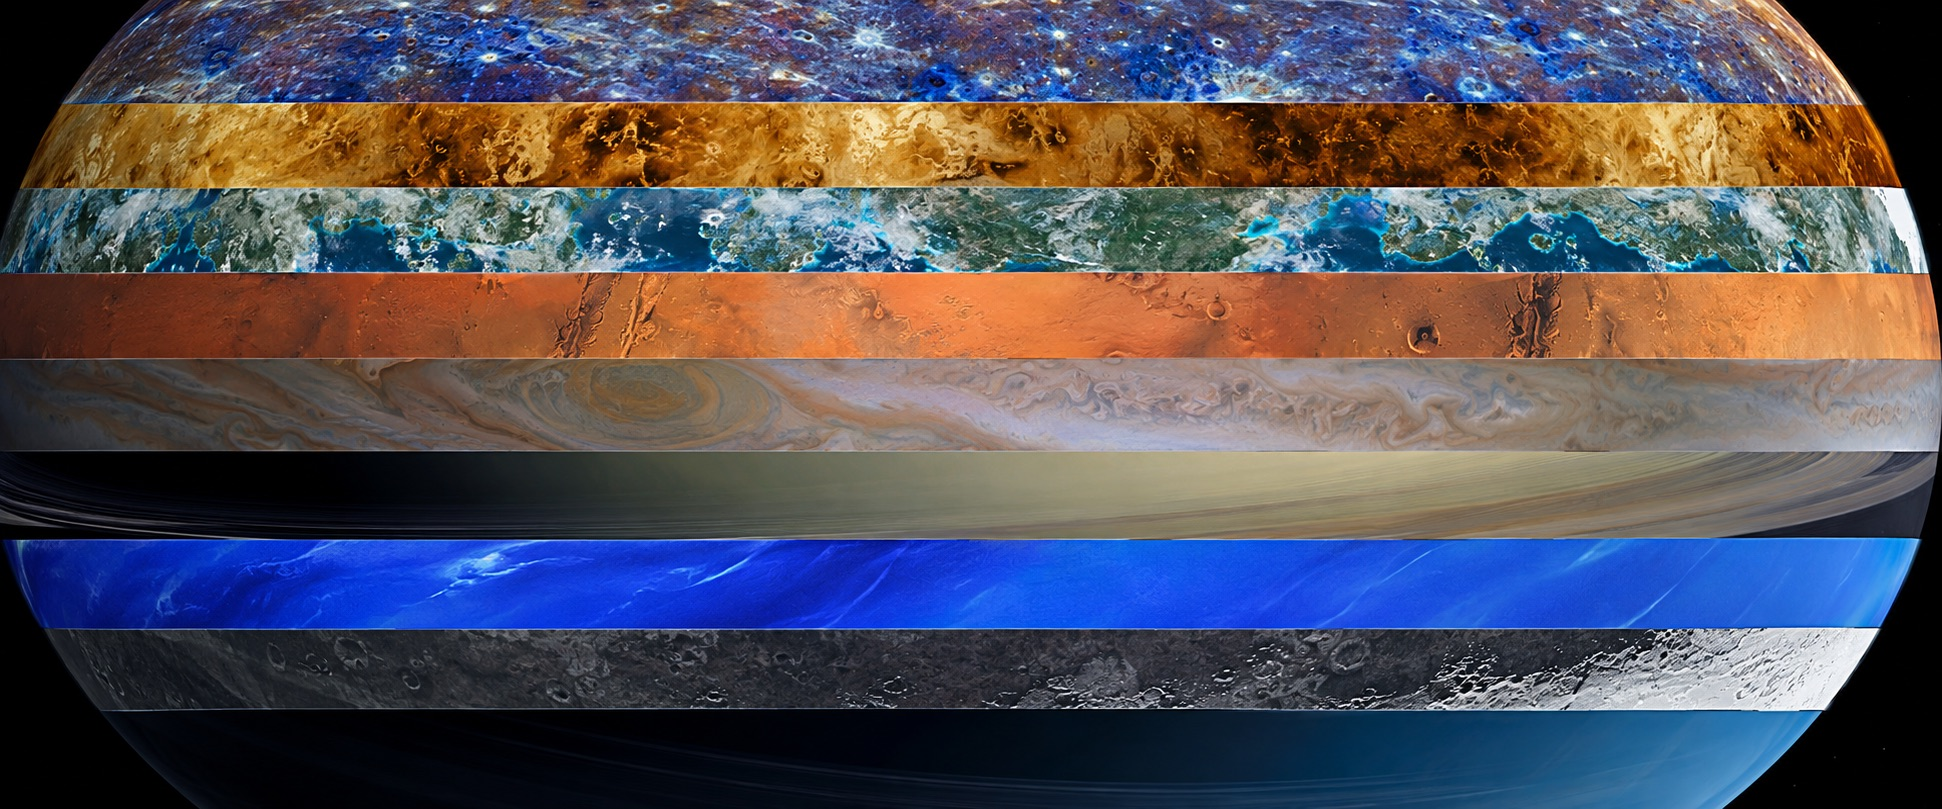
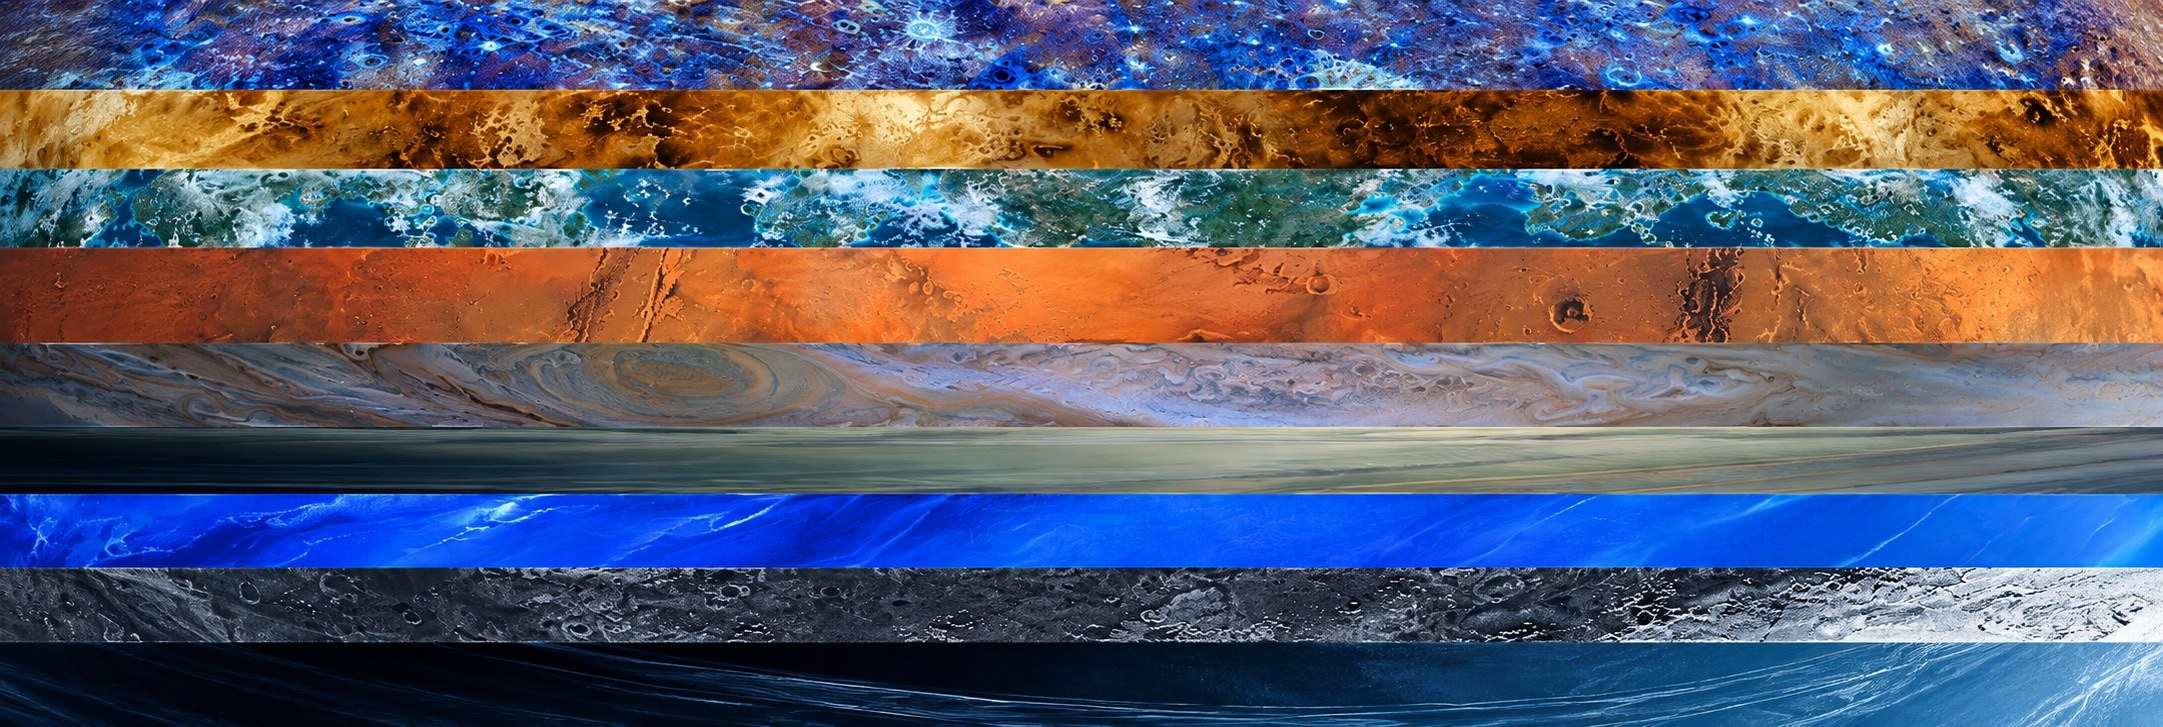
Start page: new planet stripes texture, stripes run edge to edge
Stripe positions measured from the color jumps of the new texture; the usable area is now the
whole width (no black rim), rest positions in the middle so planets can turn both ways.

Claude-Session: https://claude.ai/code/session_017AURMTeW5qFpG2teaZ4ubR

diff --git a/src/client/components/startScreen/planetStripes.ts b/src/client/components/startScreen/planetStripes.ts
@@ -3,7 +3,7 @@
    (369 × 810, rows of 90px, row 0 = title), so title background and buttons show the same globe. */
 
 export const STRIPES_TEXTURE_URL = 'assets/buttons-homepage/planet-stripes.jpg';
-export const STRIPES_TEXTURE_SIZE = {width: 1942, height: 809} as const;
+export const STRIPES_TEXTURE_SIZE = {width: 2163, height: 727} as const;
 
 // One button corresponds to this area in the sprite grid
 export const SPRITE_ROW = {width: 369, height: 90} as const;
@@ -17,15 +17,16 @@ export type PlanetStripe = {
   // Top edge and height in original texture pixels (measured from the color jumps)
   top: number;
   height: number;
-  // Texture column that sits at the left button edge at rest; the bottom stripe is colored only on the right
+  // Texture column that sits at the left button edge at rest
   startX: number;
 };
 
-const DEFAULT_START_X = 700;
+// Rest position in the middle of the texture: the same room to rotate in both directions
+const DEFAULT_START_X = 790;
 
-// At the stripe boundaries there are bright dividing lines and the neighboring stripe: cut off this much at top and bottom
-// (texture pixels) so that only the own stripe is visible – even with smoothing when scaling
-export const STRIPE_EDGE_TRIM = 2;
+// At the stripe boundaries there are bright dividing lines and the neighboring stripe (about 3 rows of transition):
+// cut off this much at top and bottom (texture pixels) so that only the own stripe is visible – even with smoothing
+export const STRIPE_EDGE_TRIM = 3;
 
 /** Visible part of a stripe without the edges. */
 export function trimmedStripe(stripe: PlanetStripe): PlanetStripe {
@@ -33,19 +34,19 @@ export function trimmedStripe(stripe: PlanetStripe): PlanetStripe {
 }
 
 export const PLANET_STRIPES: Readonly<Record<PlanetStripeName, PlanetStripe>> = {
-  venus: {top: 102, height: 86, startX: DEFAULT_START_X},
-  earth: {top: 188, height: 85, startX: DEFAULT_START_X},
-  mars: {top: 273, height: 86, startX: DEFAULT_START_X},
-  jupiter: {top: 359, height: 93, startX: DEFAULT_START_X},
-  saturn: {top: 452, height: 88, startX: DEFAULT_START_X},
-  neptune: {top: 540, height: 89, startX: DEFAULT_START_X},
-  moon: {top: 629, height: 80, startX: DEFAULT_START_X},
-  darkBlue: {top: 709, height: 100, startX: 1130},
+  venus: {top: 90, height: 79, startX: DEFAULT_START_X},
+  earth: {top: 169, height: 79, startX: DEFAULT_START_X},
+  mars: {top: 248, height: 95, startX: DEFAULT_START_X},
+  jupiter: {top: 343, height: 84, startX: DEFAULT_START_X},
+  saturn: {top: 427, height: 67, startX: DEFAULT_START_X},
+  neptune: {top: 494, height: 74, startX: DEFAULT_START_X},
+  moon: {top: 568, height: 75, startX: DEFAULT_START_X},
+  // Dark on the left, blue only towards the right: rest position further right, like before
+  darkBlue: {top: 643, height: 84, startX: 1350},
 };
-
-// Usable area of the texture in x: outside it the stripe ends are round or black (with a margin, so the
-// rounding never becomes visible)
-const TEXTURE_USABLE = {left: 300, right: 1700};
+// Usable area of the texture in x: the stripes run from edge to edge; a few pixels stay off so JPEG edge
+// artifacts and smoothing never show
+export const TEXTURE_USABLE = {left: 4, right: STRIPES_TEXTURE_SIZE.width - 4};
 // Visible surface arc length from the left button edge to the planet edge (at the equator, sprite pixels)
 const VISIBLE_ARC = 650;
 

diff --git a/tests/client/components/startScreen/planetStripes.spec.ts b/tests/client/components/startScreen/planetStripes.spec.ts
@@ -1,5 +1,5 @@
 import {expect} from 'chai';
-import {PLANET_STRIPES, rotationLimits, STRIPES_TEXTURE_SIZE} from '@/client/components/startScreen/planetStripes';
+import {PLANET_STRIPES, rotationLimits, STRIPES_TEXTURE_SIZE, TEXTURE_USABLE} from '@/client/components/startScreen/planetStripes';
 
 describe('planetStripes', () => {
   it('keeps every stripe inside the texture', () => {
@@ -15,9 +15,9 @@ describe('planetStripes', () => {
       const limits = rotationLimits(stripe);
       expect(limits.max).to.be.greaterThan(0);
       expect(limits.min).to.be.at.most(0);
-      // left button edge at full rotation stays right of the round stripe ends
+      // left button edge at full rotation stays inside the texture
       const leftEdge = stripe.startX - limits.max * stripe.height / 90;
-      expect(leftEdge).to.be.at.least(300);
+      expect(leftEdge).to.be.at.least(TEXTURE_USABLE.left - 0.001);
     }
   });
 });
